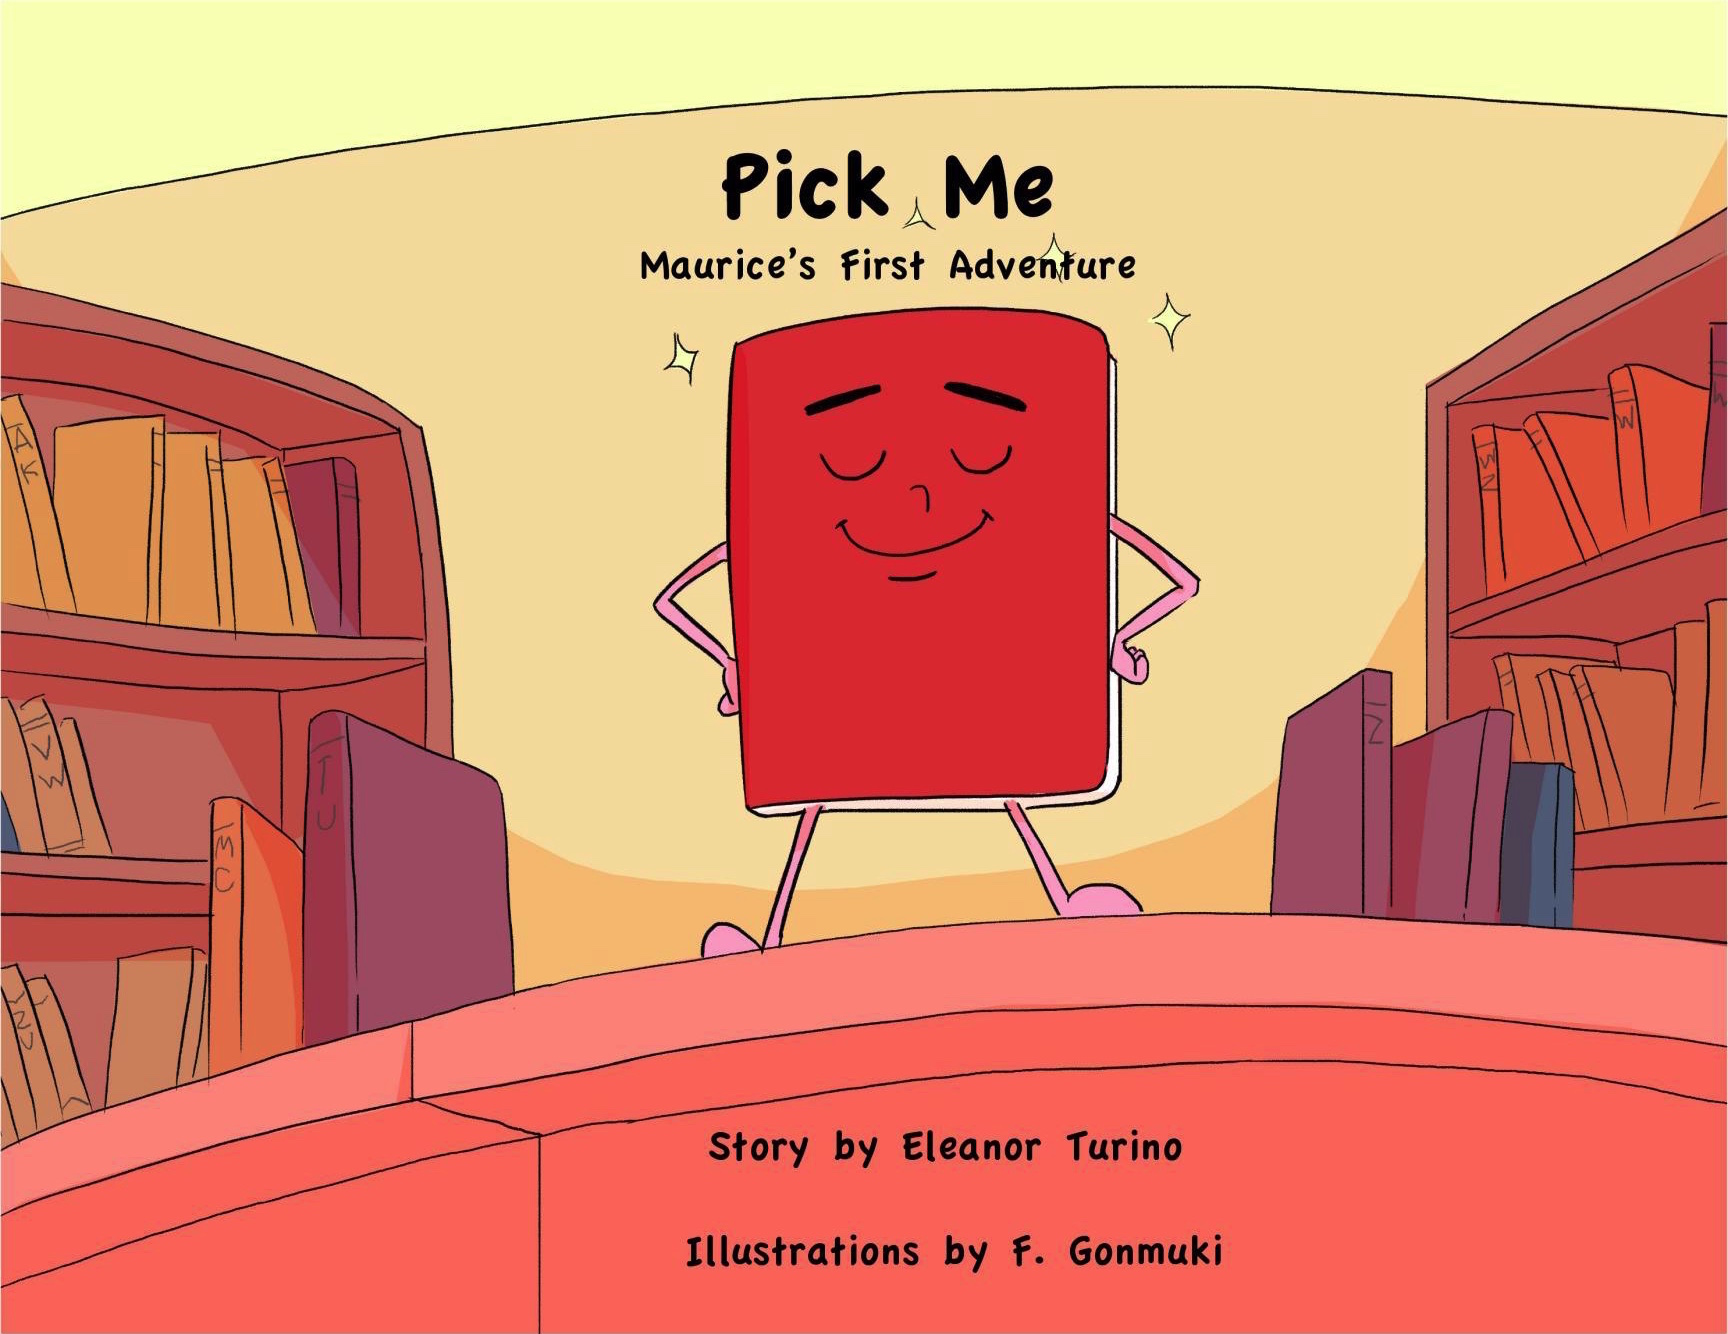
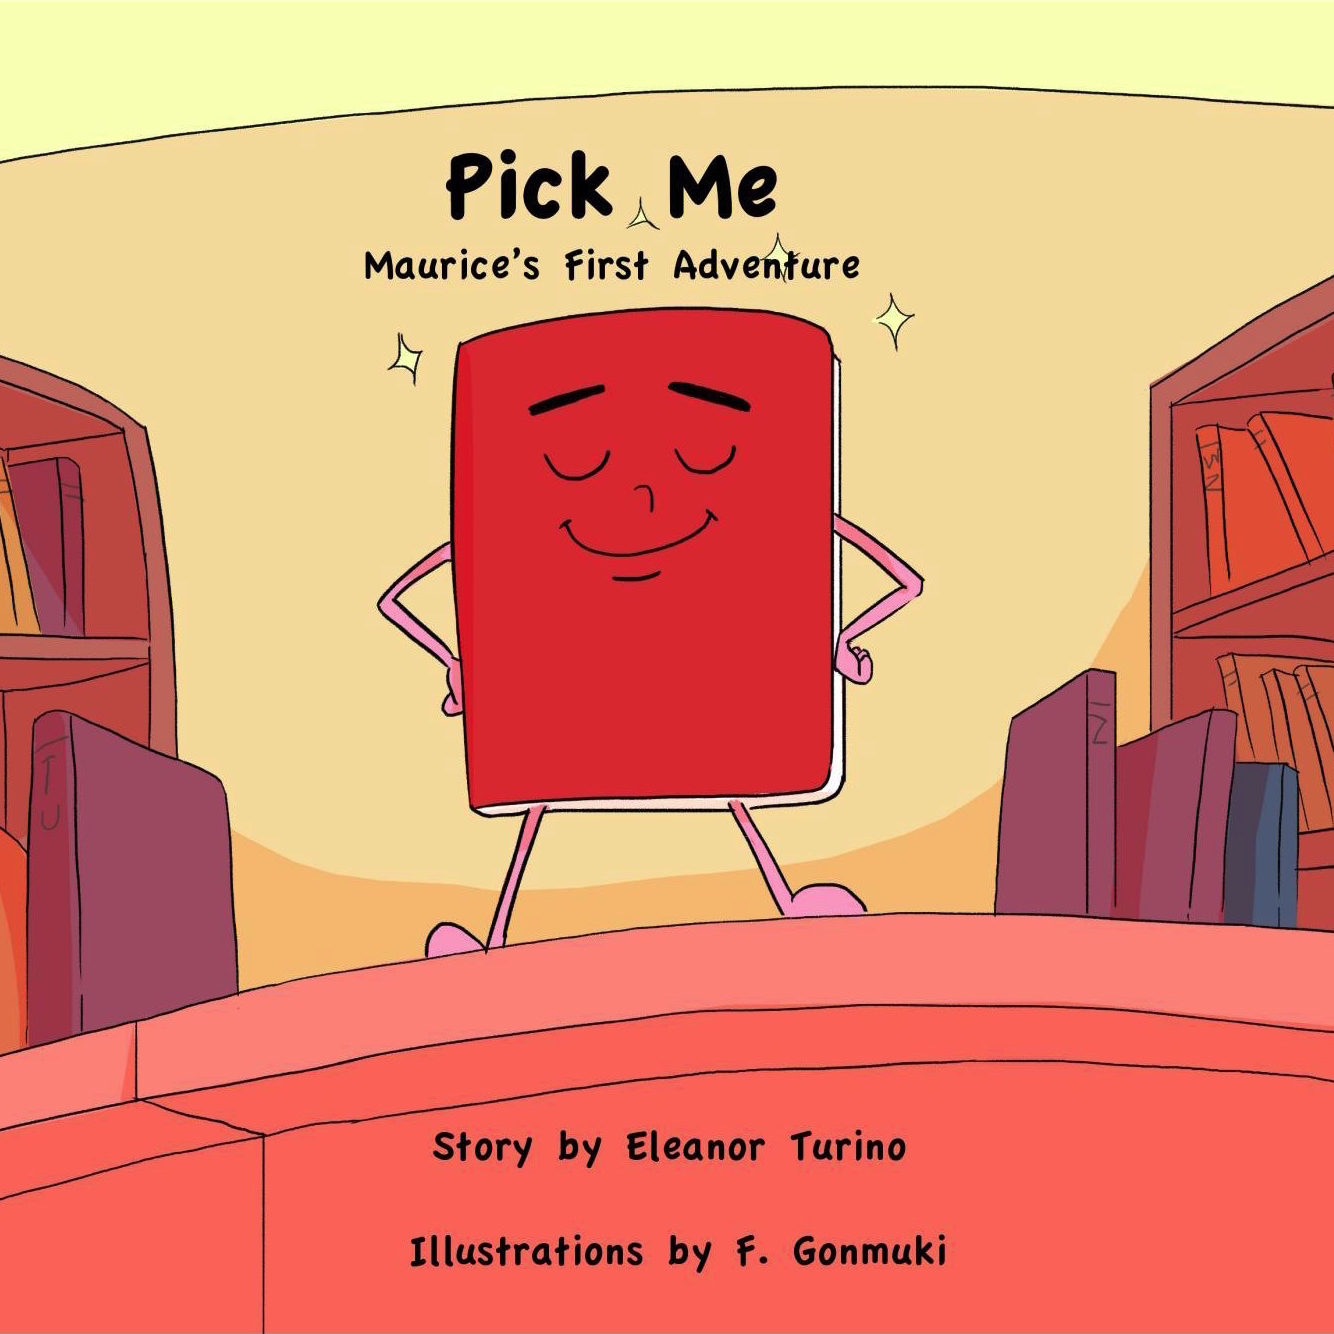
Re-size work sample images, adjust section padding and adjust section headers

diff --git a/index.html b/index.html
@@ -51,15 +51,15 @@
         <div class="work-samples">
           <article>
             <h2>Maurice the Book</h2>
-            <a href="http://mauricethebook.com" target="_blank"><img src="./images/bookcover.png" alt="Cover of Pick Me" style="width:12rem;"></a>
+            <a href="http://mauricethebook.com" target="_blank"><img src="./images/bookcover.png" alt="Cover of Pick Me" style="width:11rem;"></a>
           </article>
           <article>
             <h2>Business Card</h2>
-            <img src="./images/business-card.png" alt="Ellie Fichtelman's business card" style="width:15rem;">
+            <img src="./images/business-card.png" alt="Ellie Fichtelman's business card" style="width:16rem;">
           </article>
           <article>
             <h2>Business Icon</h2>
-            <img src="./images/ellie-fichtelman-icon.png" alt="Ellie Fichtelman's logo" style="width:10rem;">
+            <img src="./images/ellie-fichtelman-icon.png" alt="Ellie Fichtelman's logo" style="width:11rem;">
           </article>
         </div>
         <p>

diff --git a/styles/main.css b/styles/main.css
@@ -141,7 +141,7 @@ input, textarea, button {
   padding: 2rem;
 }
 .see-my-work h1 {
-  margin-bottom: 2rem;
+  margin-bottom: 1.75rem;
   text-align: center;
 }
 .see-my-work p {
@@ -161,11 +161,11 @@ input, textarea, button {
 
 /* ABOUT ME STYLES */
 .about-me {
-  padding: 0 35%;
+  padding: 2rem 35%;
   text-align: center;
 }
 .about-me h1 {
-  margin-bottom: 2rem;
+  margin-bottom: 1.75rem;
 }
 .about-me img {
   border: solid #cfd1ca .25rem;
@@ -180,7 +180,7 @@ input, textarea, button {
   text-align: center;
 }
 .contact h1 {
-  margin-bottom: 2rem;
+  margin-bottom: 1.75rem;
 }
 .form {
   text-align: right;
